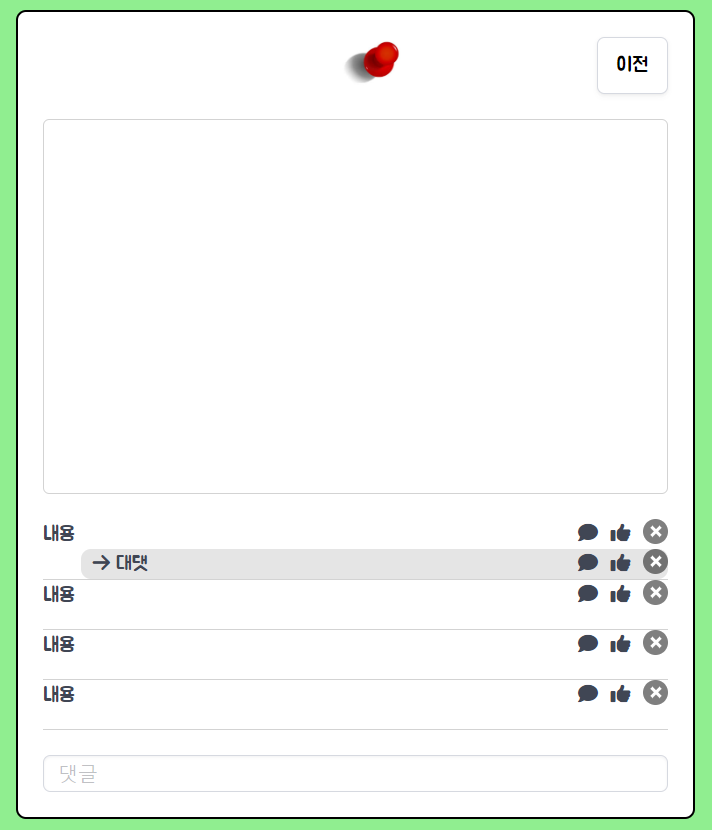
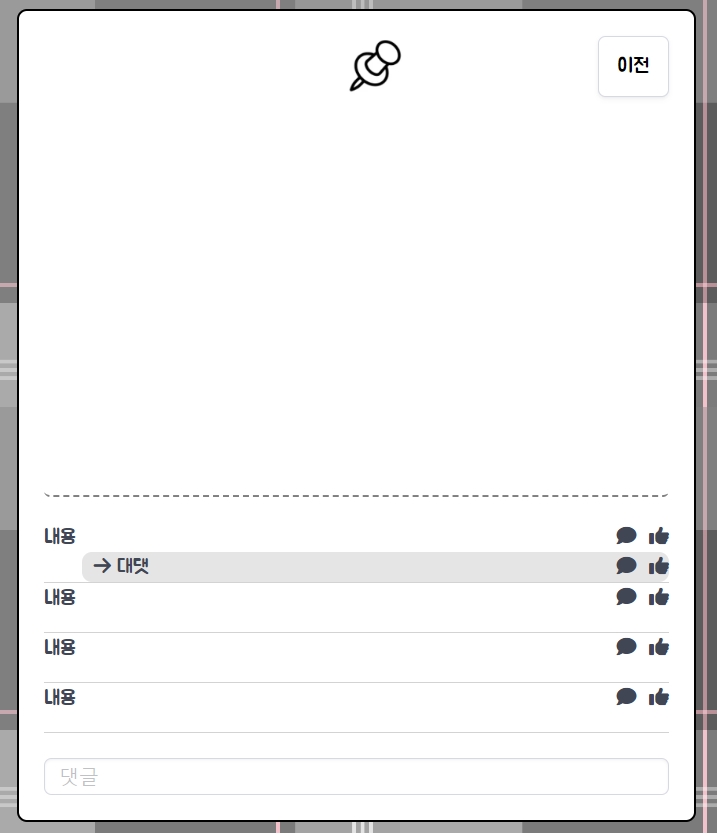
post_in 수정

diff --git a/static/post_in.html b/static/post_in.html
@@ -32,6 +32,7 @@
         <div class="question">
           <div class="q_area"></div>
         </div>
+        <div class="underbar"></div>
         <div class="answer">
           <div class="a_area">
             <div class="a_main">
@@ -39,7 +40,6 @@
               <div class="a_option">
                 <div class="comment"><i class="fa-solid fa-comment"></i></div>
                 <div class="like"><i class="fa-solid fa-thumbs-up"></i></div>
-                <div class="delete"></div>
               </div>
             </div>
             <div class="a_sub">
@@ -49,7 +49,6 @@
               <div class="a_option">
                 <div class="comment"><i class="fa-solid fa-comment"></i></div>
                 <div class="like"><i class="fa-solid fa-thumbs-up"></i></div>
-                <div class="delete"></div>
               </div>
             </div>
           </div>
@@ -59,7 +58,6 @@
               <div class="a_option">
                 <div class="comment"><i class="fa-solid fa-comment"></i></div>
                 <div class="like"><i class="fa-solid fa-thumbs-up"></i></div>
-                <div class="delete"></div>
               </div>
             </div>
           </div>
@@ -69,7 +67,6 @@
               <div class="a_option">
                 <div class="comment"><i class="fa-solid fa-comment"></i></div>
                 <div class="like"><i class="fa-solid fa-thumbs-up"></i></div>
-                <div class="delete"></div>
               </div>
             </div>
           </div>
@@ -79,7 +76,6 @@
               <div class="a_option">
                 <div class="comment"><i class="fa-solid fa-comment"></i></div>
                 <div class="like"><i class="fa-solid fa-thumbs-up"></i></div>
-                <div class="delete"></div>
               </div>
             </div>
           </div>

diff --git a/static/post_in.css b/static/post_in.css
@@ -14,10 +14,10 @@ body {
   display: flex;
   flex-direction: column;
   align-items: center;
-
   /* border: 2px solid brown; */
   box-shadow: none;
-  background: lightgreen;
+  background-image: url(./img/background.jpg);
+  background-size: cover;
 }
 
 .main {
@@ -52,10 +52,9 @@ body {
 .q_area {
   word-break: break-all;
   width: 500px;
-  height: 300px;
-  border: 1px solid lightgray;
+  min-height: 300px;
+  border-bottom: 2px dashed gray;
   border-radius: 5px;
-  overflow-y: auto;
 }
 
 .answer {
